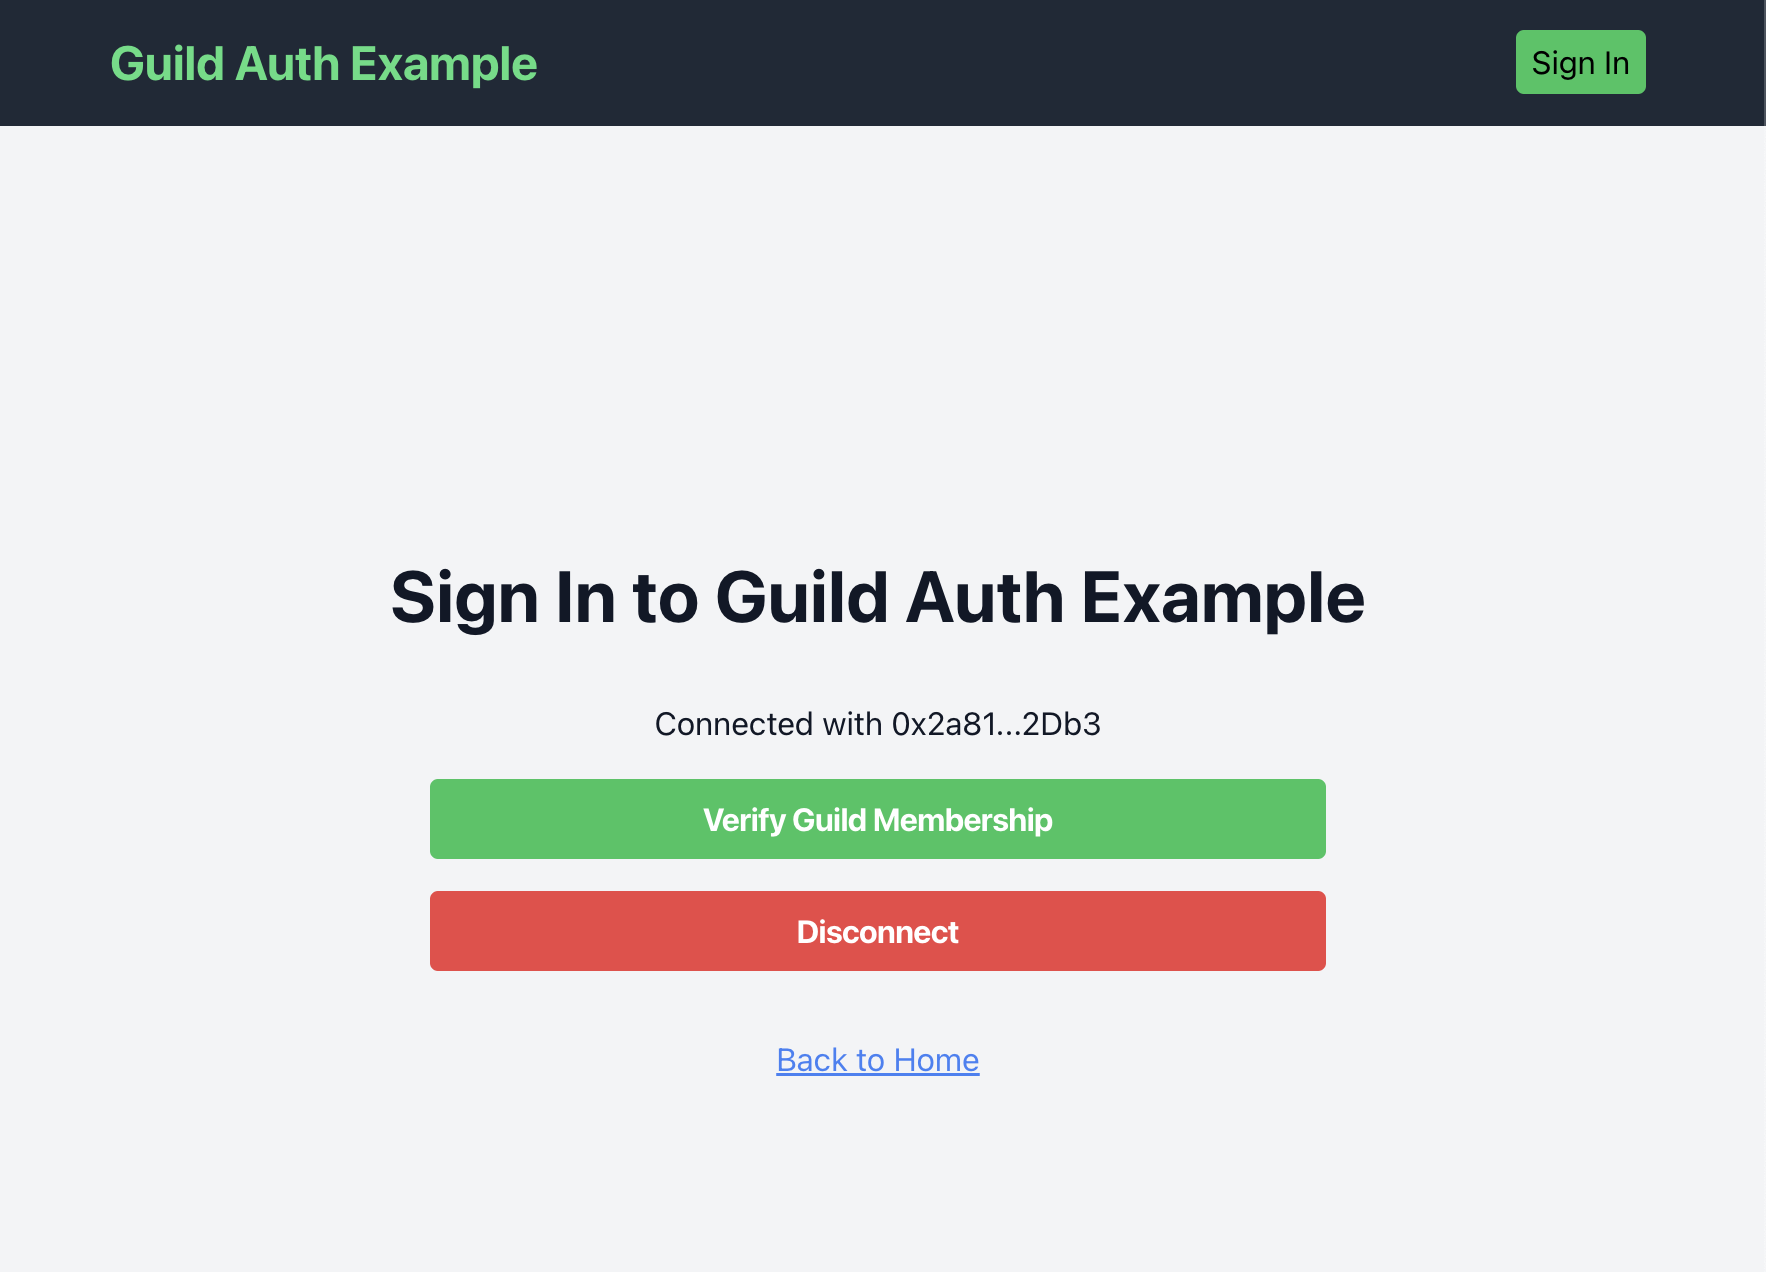
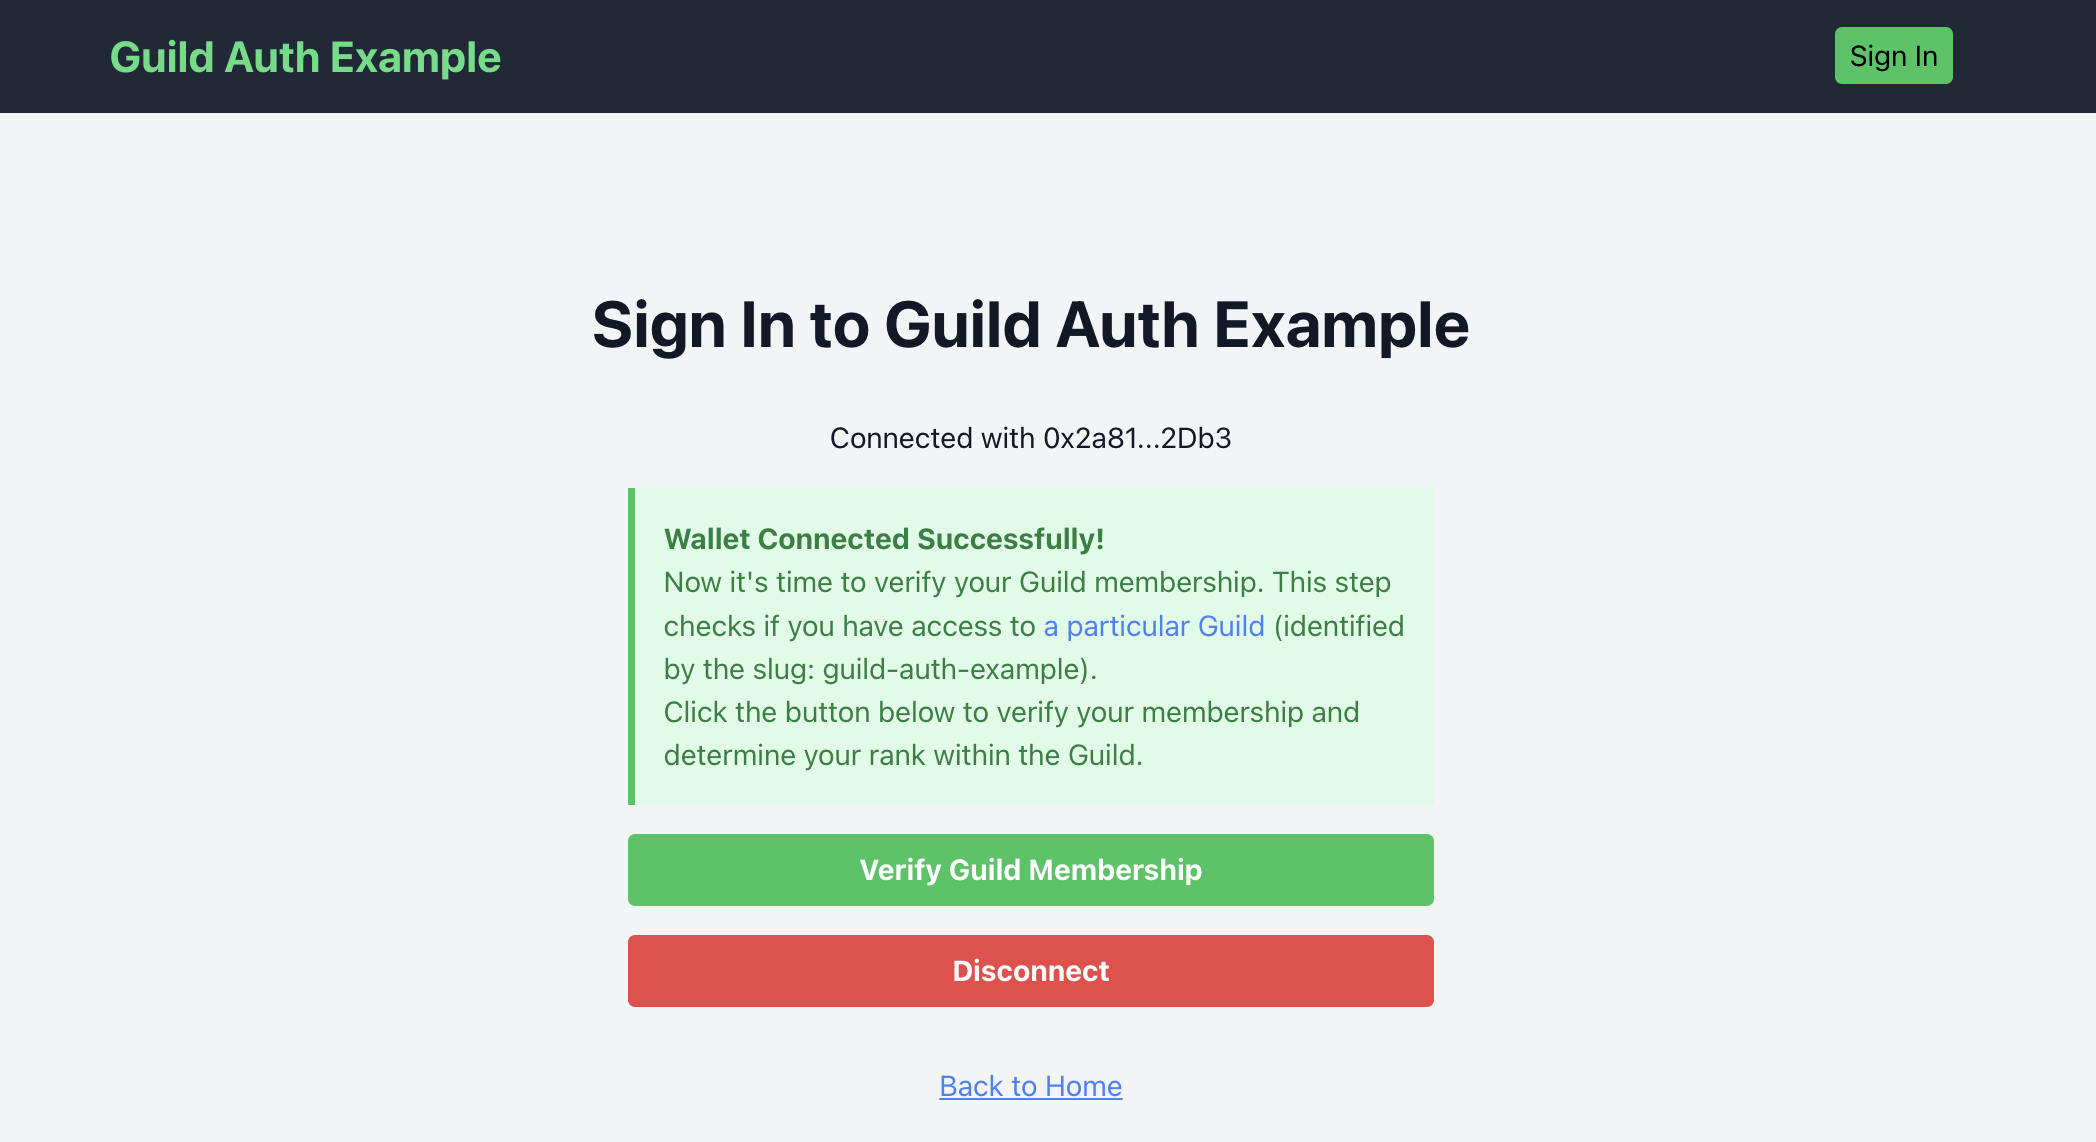
add more explanation on the sign in page

diff --git a/app/signin/page.tsx b/app/signin/page.tsx
@@ -82,14 +82,18 @@ export default function SignIn() {
   return (
     <div className="flex flex-col items-center justify-center min-h-screen bg-gray-100 text-gray-900 p-4">
       <h1 className="text-4xl font-bold mb-8">Sign In to Guild Auth Example</h1>
-      
+
       {error && (
         <p className="text-red-500 mb-4">{error}</p>
       )}
-      
+
       <div className="flex flex-col items-center w-full max-w-md">
         {!isConnected ? (
           <div className="space-y-4 w-full">
+            <div className="bg-blue-100 border-l-4 border-blue-500 text-blue-700 p-4 mb-4">
+              <p className="font-bold">Why connect a wallet?</p>
+              <p>Guild accounts are associated with Ethereum addresses. Connecting your wallet allows us to verify your Guild membership and determine your rank.</p>
+            </div>
             <select
               value={selectedConnector || ''}
               onChange={(e) => setSelectedConnector(e.target.value)}
@@ -105,9 +109,8 @@ export default function SignIn() {
             <button
               onClick={handleConnectWallet}
               disabled={!selectedConnector || isAttemptingToJoin}
-              className={`bg-blue-500 hover:bg-blue-600 text-white font-bold py-2 px-4 rounded transition duration-300 ease-in-out transform hover:scale-105 w-full ${
-                (!selectedConnector || isAttemptingToJoin) ? 'opacity-50 cursor-not-allowed' : ''
-              }`}
+              className={`bg-blue-500 hover:bg-blue-600 text-white font-bold py-2 px-4 rounded transition duration-300 ease-in-out transform hover:scale-105 w-full ${(!selectedConnector || isAttemptingToJoin) ? 'opacity-50 cursor-not-allowed' : ''
+                }`}
             >
               {isAttemptingToJoin ? 'Connecting...' : 'Connect Wallet'}
             </button>
@@ -115,6 +118,11 @@ export default function SignIn() {
         ) : (
           <div className="space-y-4 w-full">
             <p className="text-center">Connected with {abbreviateAddress(address ?? '')}</p>
+            <div className="bg-green-100 border-l-4 border-green-500 text-green-700 p-4 mb-4">
+              <p className="font-bold">Wallet Connected Successfully!</p>
+              <p>Now it's time to verify your Guild membership. This step checks if you have access to <Link href={`https://guild.xyz/${process.env.NEXT_PUBLIC_GUILD_SLUG}`} target="_blank" rel="noopener noreferrer" className="text-blue-500 hover:underline">a particular Guild</Link> (identified by the slug: {process.env.NEXT_PUBLIC_GUILD_SLUG}).</p>
+              <p>Click the button below to verify your membership and determine your rank within the Guild.</p>
+            </div>
             <button
               onClick={handleSignInAttempt}
               disabled={isAttemptingToJoin}
@@ -131,7 +139,7 @@ export default function SignIn() {
           </div>
         )}
       </div>
-      
+
       <Link href="/" className="mt-8 text-blue-500 hover:text-blue-600 underline">
         Back to Home
       </Link>
